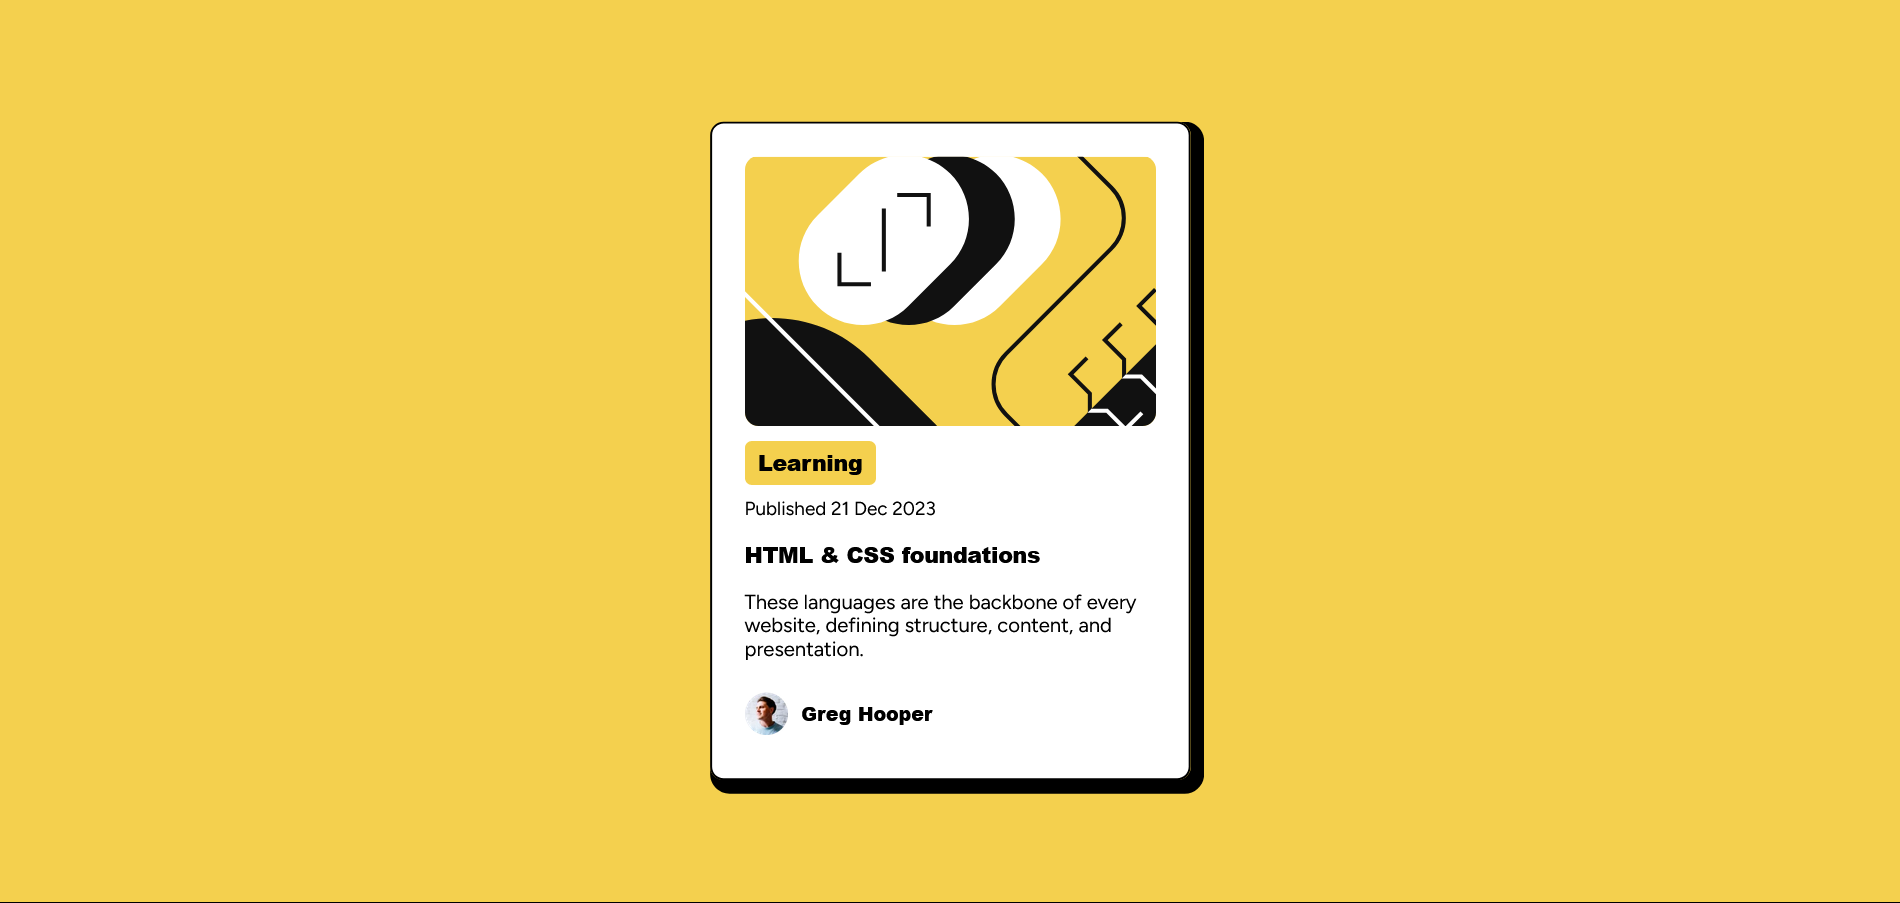
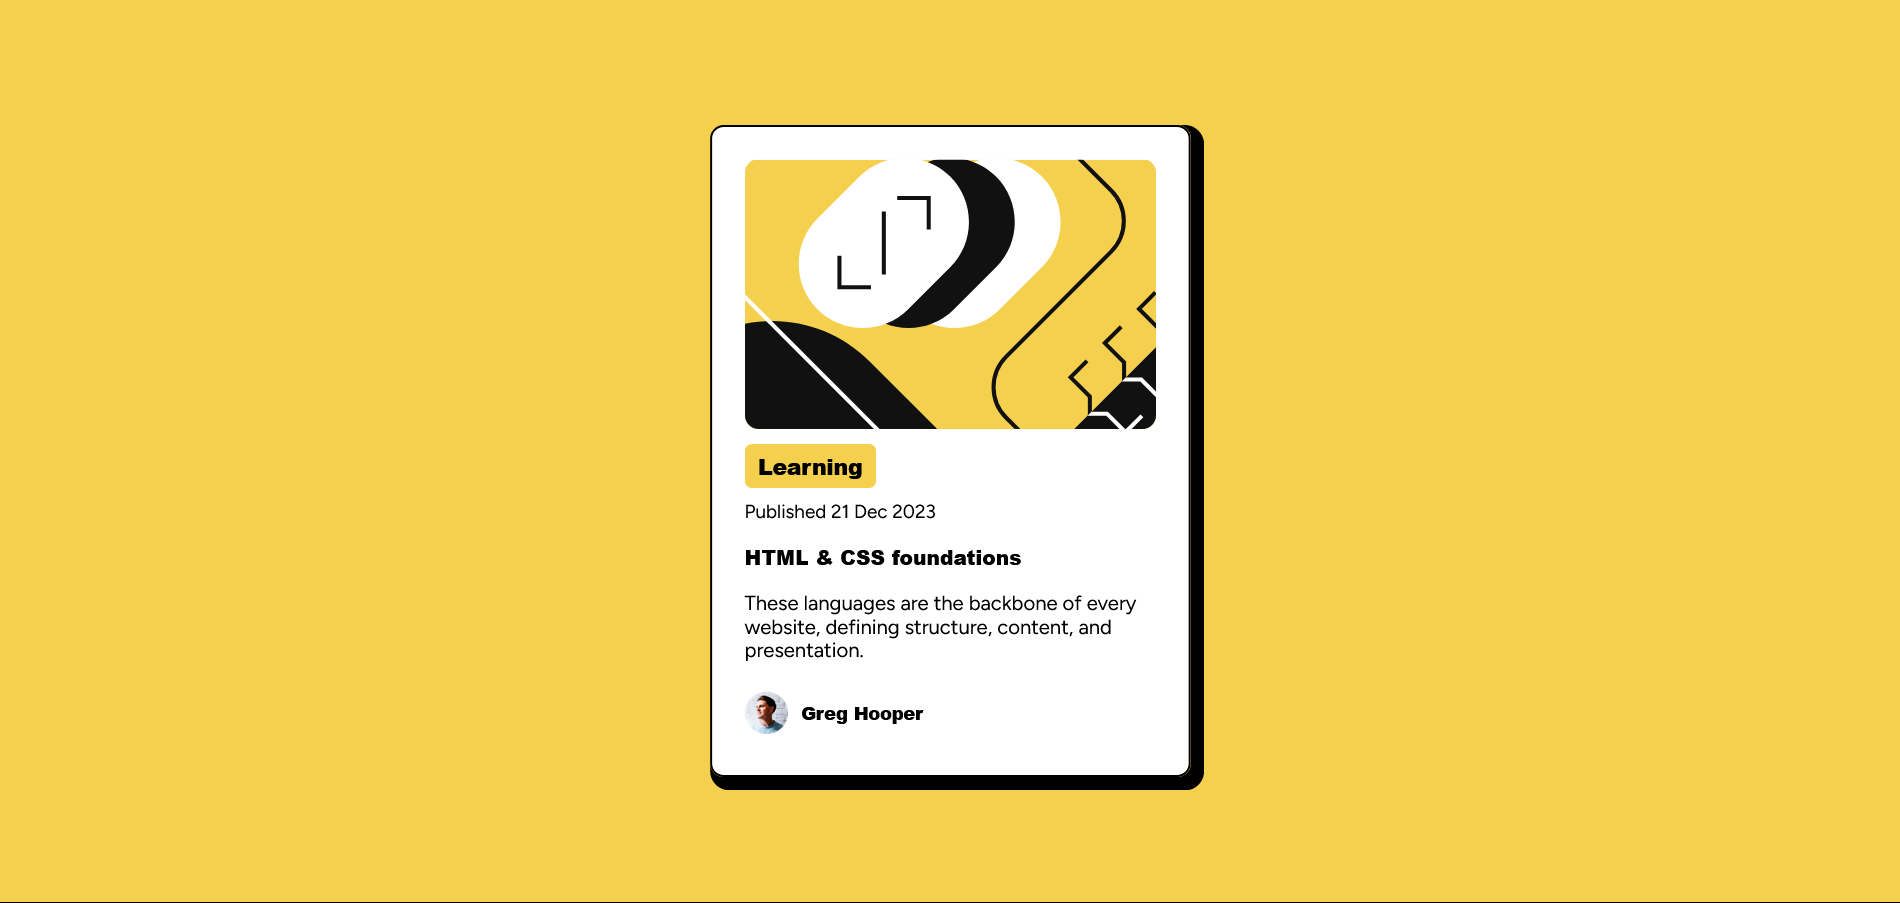
ajustes

diff --git a/styles.css b/styles.css
@@ -79,7 +79,7 @@ main{
 }
 .card-title{
     font-family: sans-serif;
-    font-size: 16px;
+    font-size: 15px;
     font-weight: 900;
 }
 .card-date{
@@ -107,7 +107,7 @@ main{
 .card-author-name{
     font-family: sans-serif;
     font-weight: 900;
-    font-size: 14px;
+    font-size: 13px;
 }
 @media (max-width: 768px) {
     .card{
